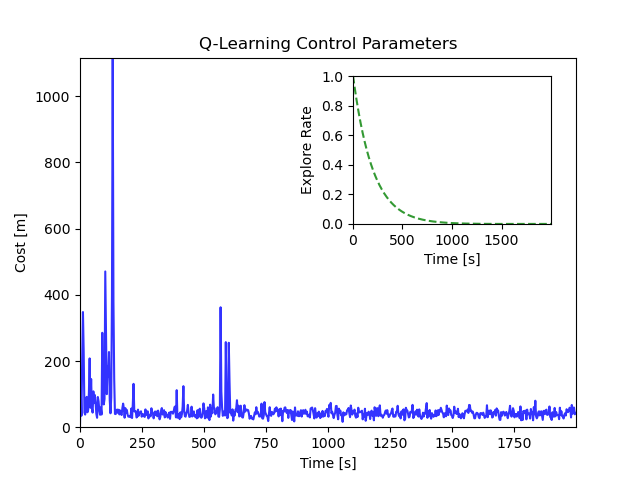
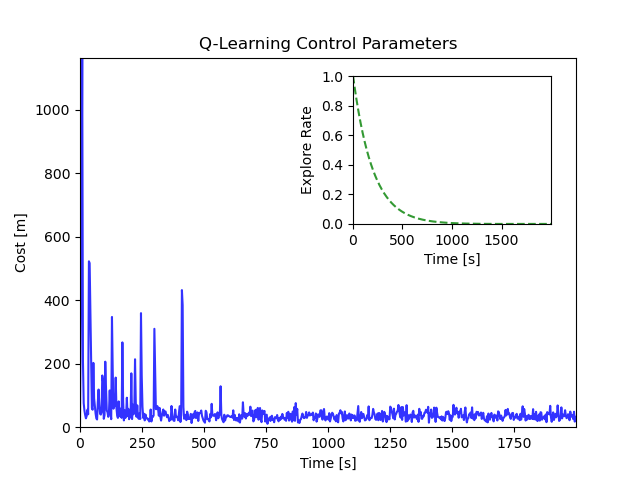
messing with trial counts

Changed region(s): [[0.0625, 0.125, 0.9062, 0.9062]]

diff --git a/main.py b/main.py
@@ -47,7 +47,7 @@ trial_cost  = LA.norm(error)
 reward      = 1/LA.norm(error)
 t       = Ti
 i       = 1
-counter = 0  
+trial_counts = 0  
 nSteps  = int(Tf/Ts+1)
         
 t_all           = np.zeros(nSteps)                  # to store times
@@ -119,8 +119,8 @@ while round(t,3) < Tf:
     t += Ts
     i += 1
 
-    # wander the target 
-    target += 0.5*np.array([1*np.sin(i*Ts*target_rand0),1*np.cos(0.5*i*Ts*target_rand1),1*np.sin(i*Ts*target_rand2)])
+    # # wander the target 
+    # target += 0.5*np.array([1*np.sin(i*Ts*target_rand0),1*np.cos(0.5*i*Ts*target_rand1),1*np.sin(i*Ts*target_rand2)])
 
     # still working on this
     if round(trial_counter,5) < Tl:
@@ -153,6 +153,8 @@ while round(t,3) < Tf:
         # reset
         trial_counter = Ts
         trial_cost = 0
+        trial_counts += 1
+        print('trial ', trial_counts, 'done @:', round(t,2), 's' )
         
         # select new target (randomly)
         target = 10*np.array([random.uniform(-1, 1),random.uniform(-1, 1),random.uniform(-1, 1)]) 
@@ -164,6 +166,8 @@ while round(t,3) < Tf:
         explore_rate = np.maximum(0.995**t,0.001)-0.001
         #print(explore_rate)
         
+    # wander the target 
+    target += 0.5*np.array([1*np.sin(i*Ts*target_rand0),1*np.cos(0.5*i*Ts*target_rand1),1*np.sin(i*Ts*target_rand2)])
 
 
     # controller (PD type)
